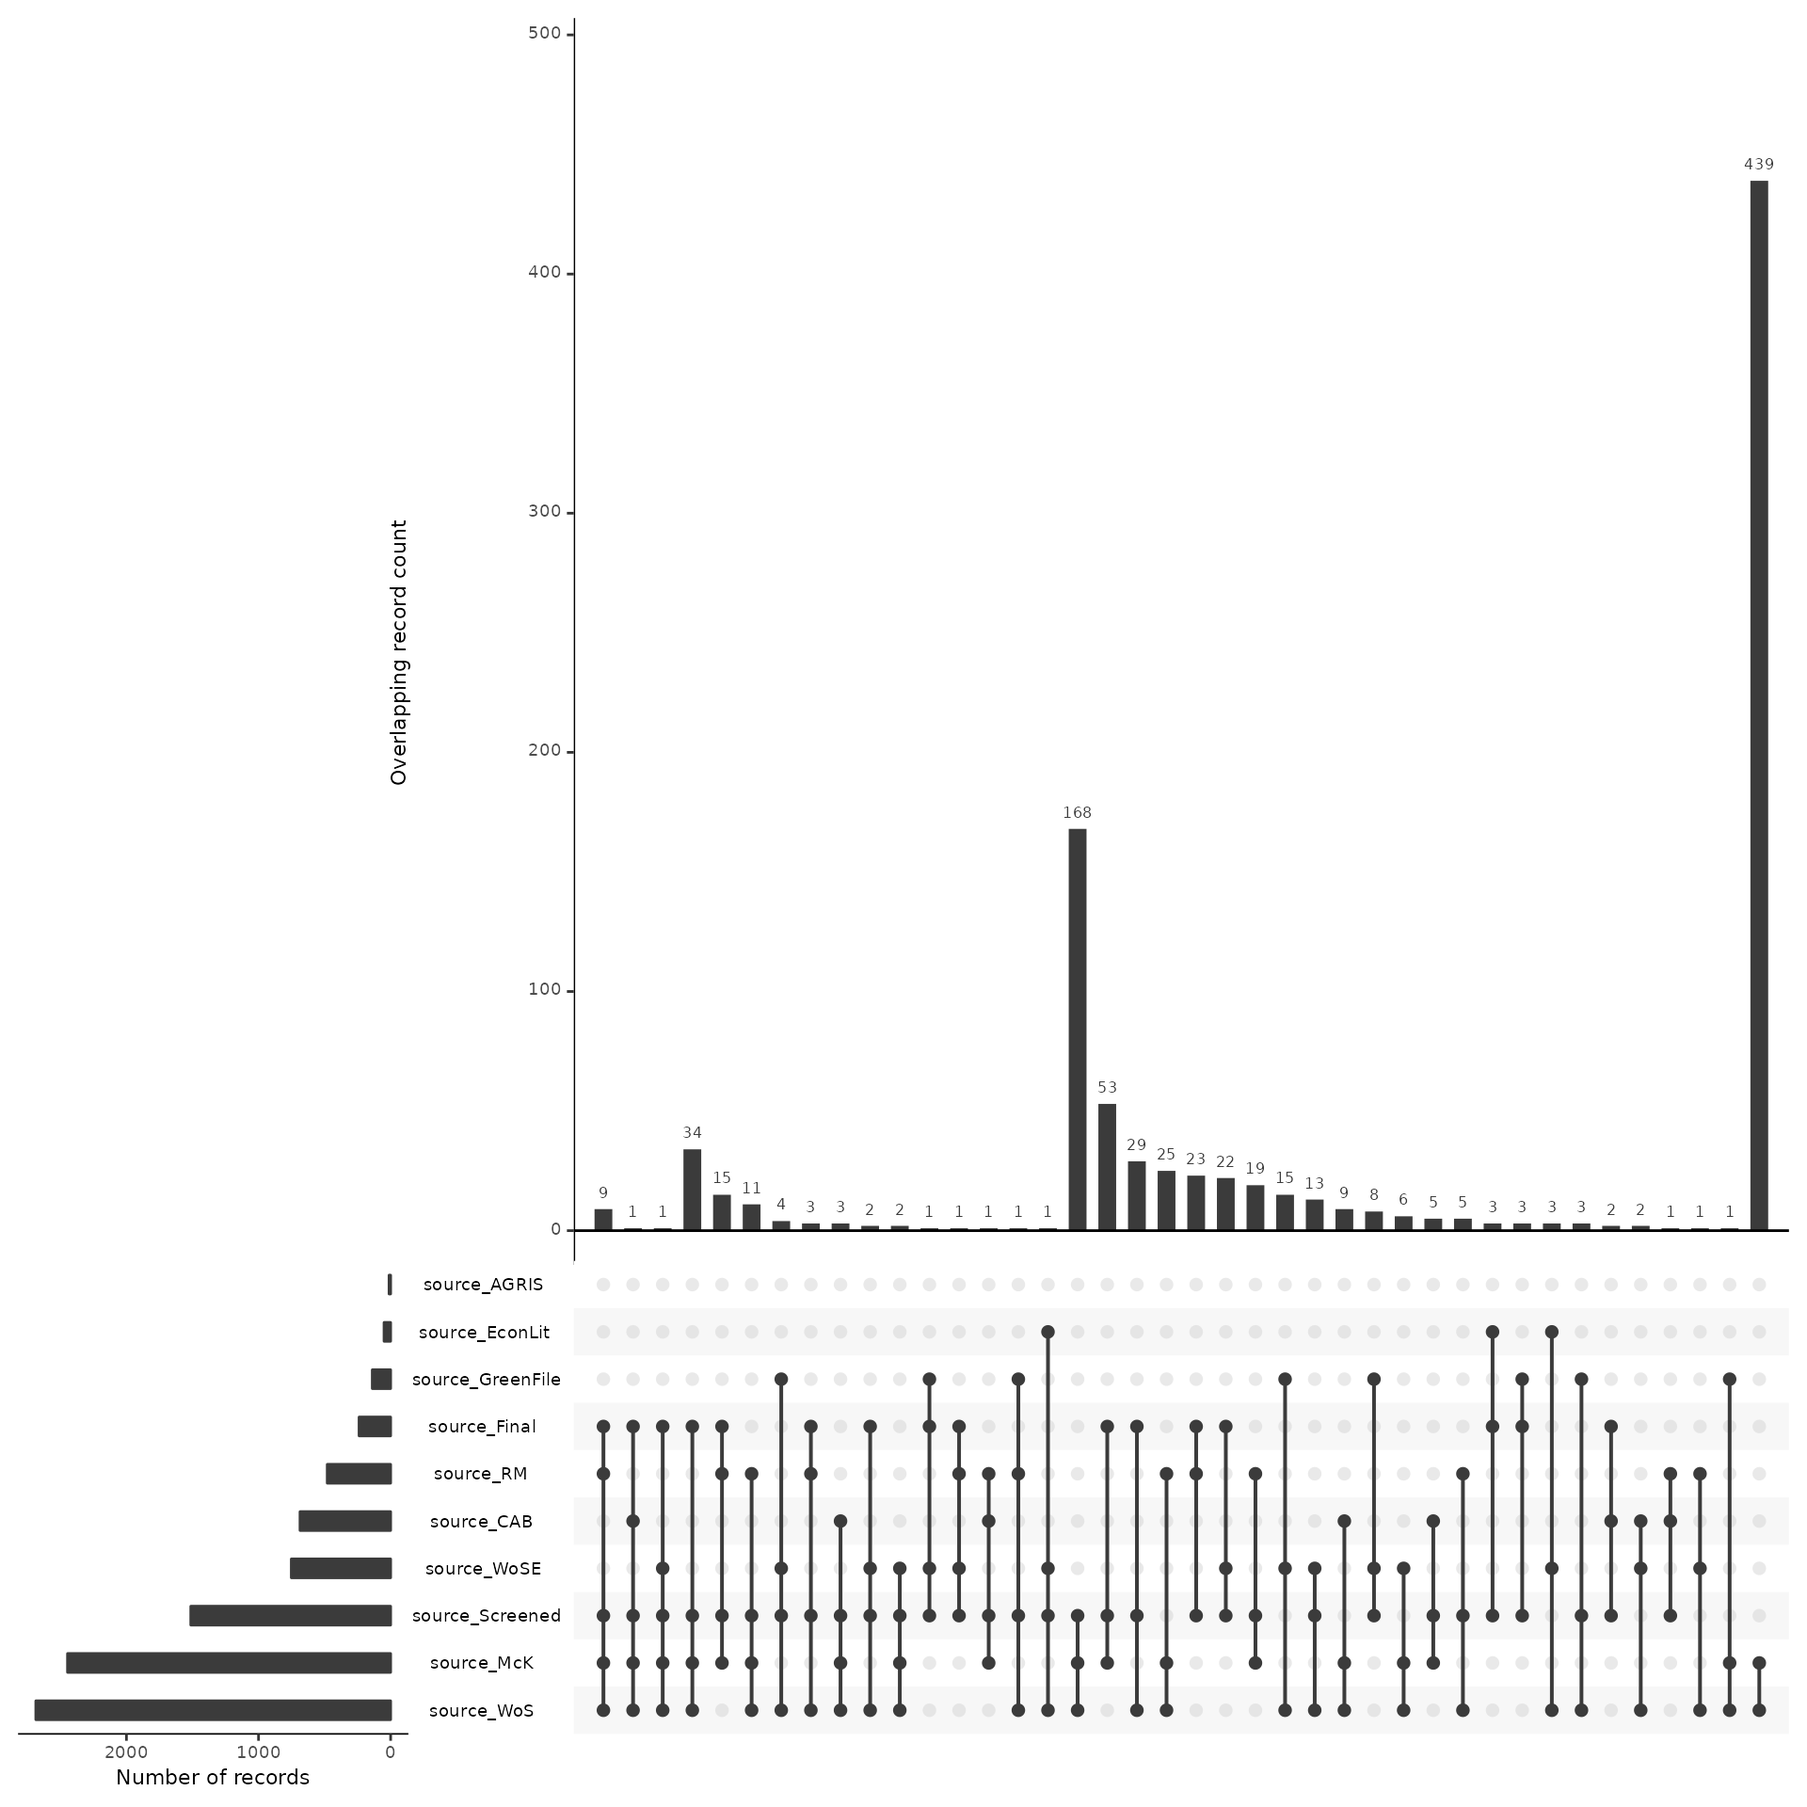
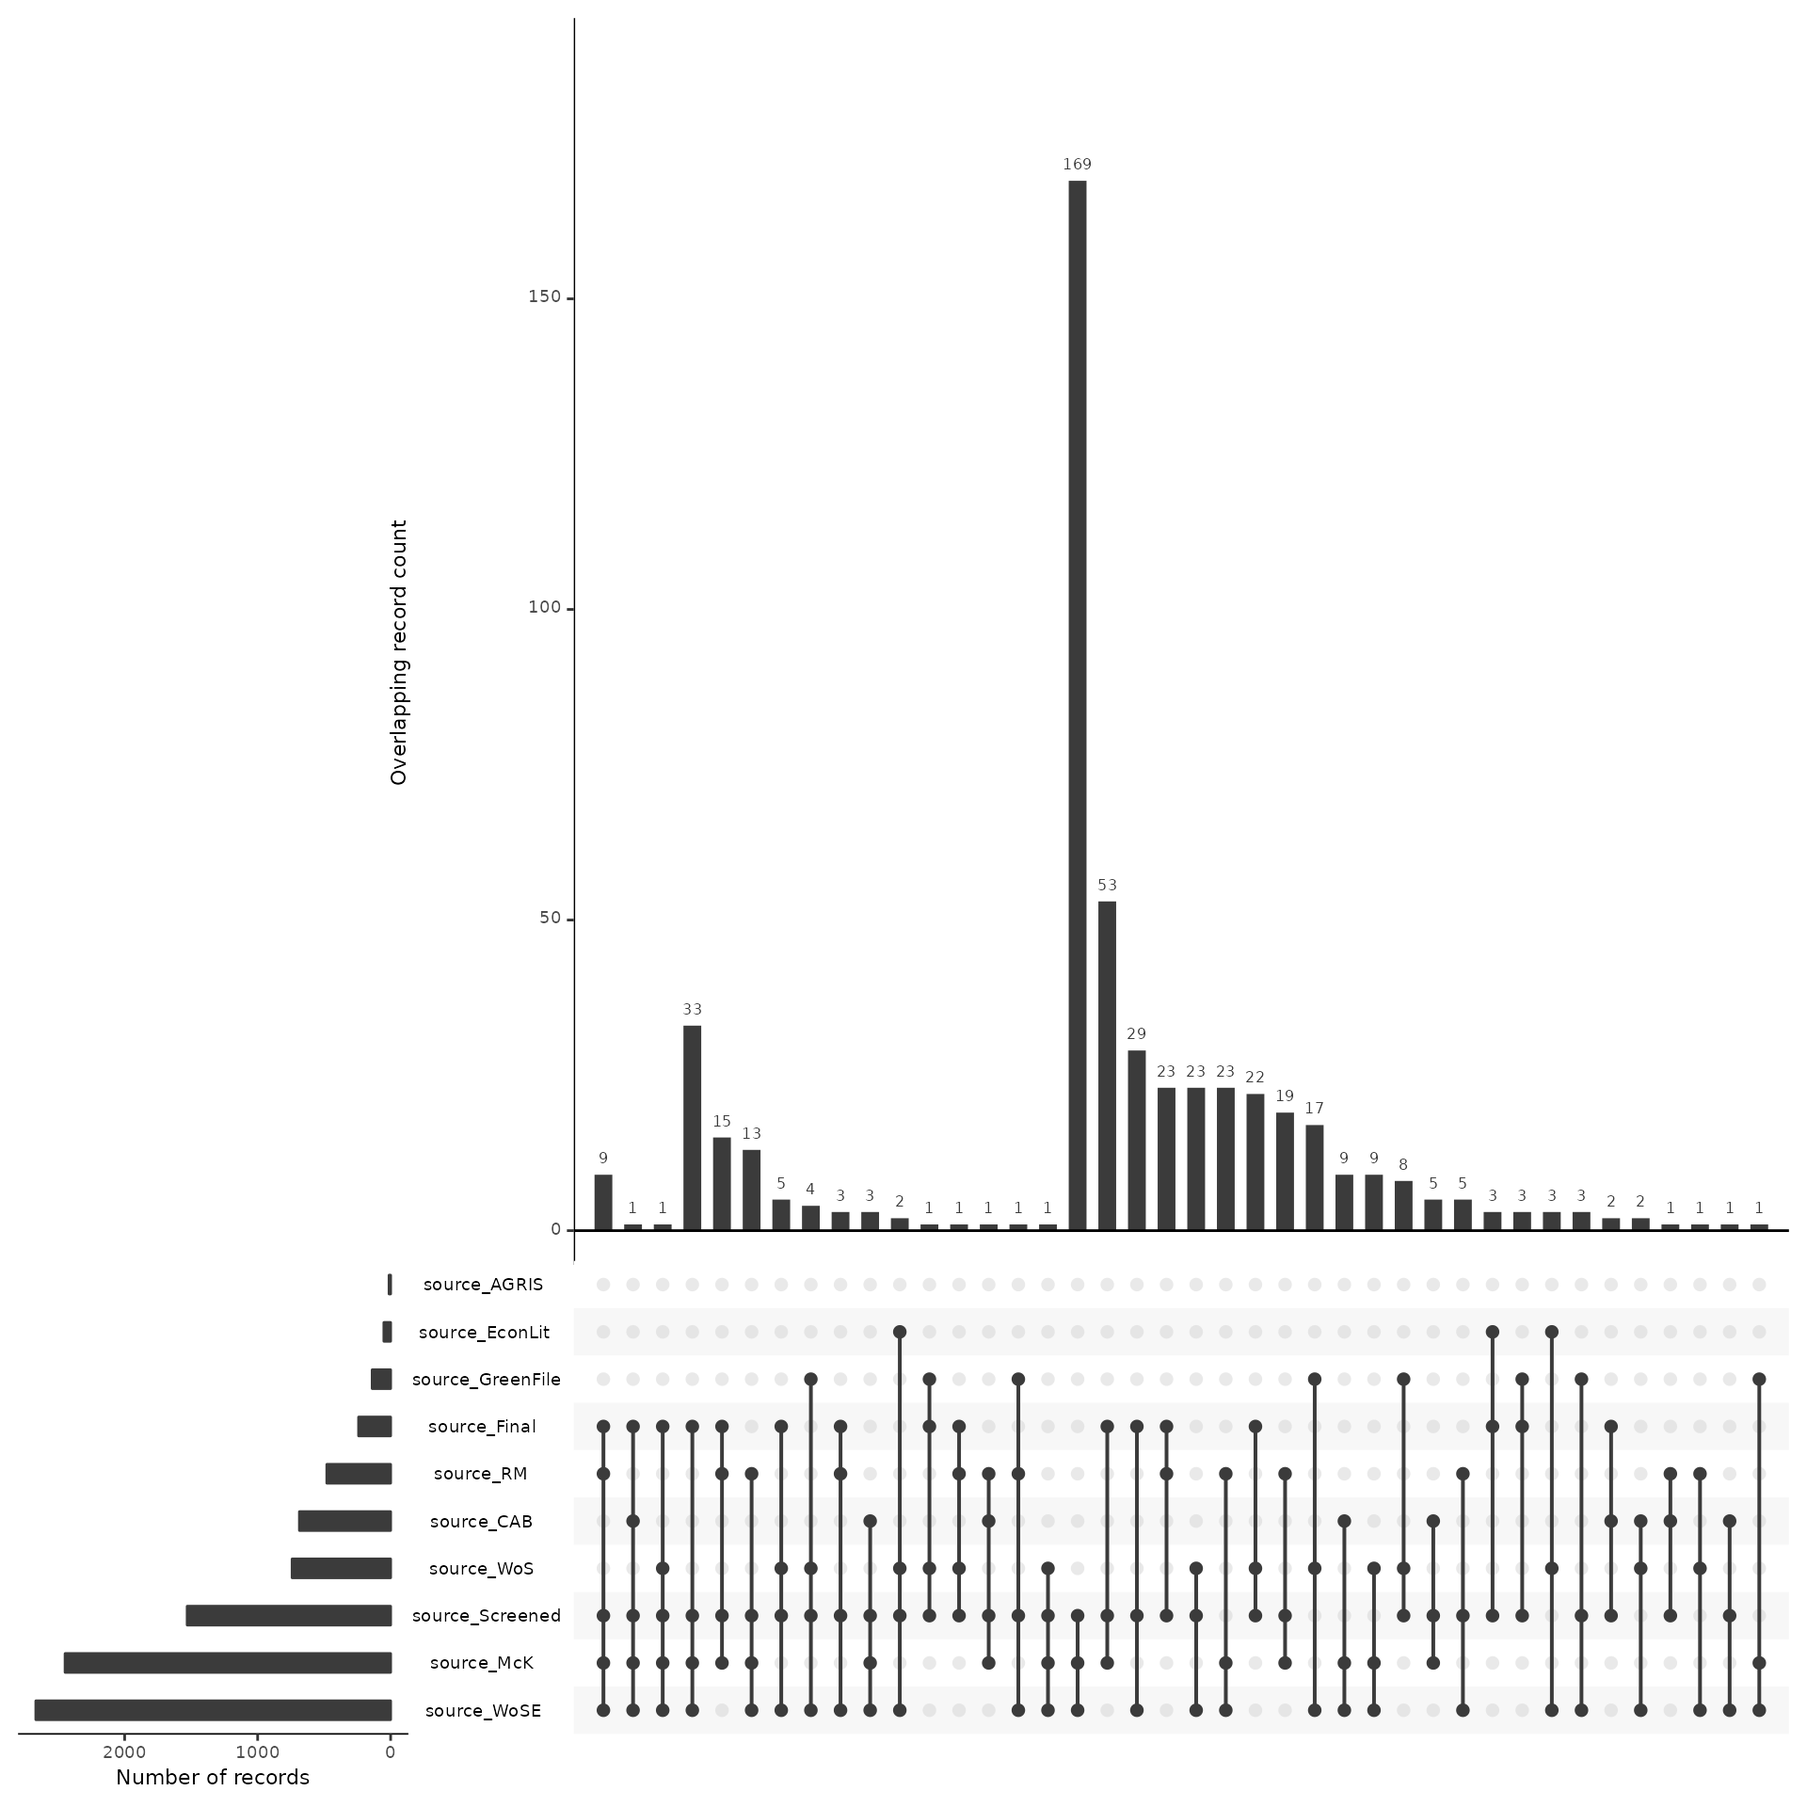
Built site for CiteSource: 0.0.0.9000@3d6e1e9

diff --git a/articles/citesource_working_example.html b/articles/citesource_working_example.html
@@ -120,8 +120,8 @@
 <span><span class="co">#&gt;  [6] "../tests/testthat/data/working_example/short/McK.ris"      </span></span>
 <span><span class="co">#&gt;  [7] "../tests/testthat/data/working_example/short/RM.ris"       </span></span>
 <span><span class="co">#&gt;  [8] "../tests/testthat/data/working_example/short/TiAb.ris"     </span></span>
-<span><span class="co">#&gt;  [9] "../tests/testthat/data/working_example/short/WoS_early.ris"</span></span>
-<span><span class="co">#&gt; [10] "../tests/testthat/data/working_example/short/WoS.ris"</span></span>
+<span><span class="co">#&gt;  [9] "../tests/testthat/data/working_example/short/WoS.ris"      </span></span>
+<span><span class="co">#&gt; [10] "../tests/testthat/data/working_example/short/WoSEarly.ris"</span></span>
 <span></span>
 <span></span>
 <span><span class="co">#Read citation files and store. Labels is used to compare stages of review.</span></span>
@@ -146,16 +146,18 @@
 <span>                            cite_labels <span class="op">=</span> <span class="fu"><a href="https://rdrr.io/r/base/c.html" class="external-link">c</a></span><span class="op">(</span><span class="st">"search"</span>,<span class="st">"search"</span>, <span class="st">"search"</span>, <span class="st">"Final"</span>, </span>
 <span>                                            <span class="st">"search"</span>,<span class="st">"search"</span>,<span class="st">"search"</span>,<span class="st">"Screened"</span>, <span class="st">"search"</span>,<span class="st">"search"</span><span class="op">)</span>,</span>
 <span>                            tag_naming <span class="op">=</span> <span class="st">"best_guess"</span><span class="op">)</span></span>
-<span><span class="co">#&gt; AGRIS.ris: read 12 citations.</span></span>
-<span><span class="co">#&gt; CAB.ris: read 687 citations.</span></span>
-<span><span class="co">#&gt; EconLit.ris: read 50 citations.</span></span>
-<span><span class="co">#&gt; Final.ris: read 243 citations.</span></span>
-<span><span class="co">#&gt; GreenFile.ris: read 139 citations.</span></span>
-<span><span class="co">#&gt; McK.ris: read 2661 citations.</span></span>
-<span><span class="co">#&gt; RM.ris: read 530 citations.</span></span>
-<span><span class="co">#&gt; TiAb.ris: read 1574 citations.</span></span>
-<span><span class="co">#&gt; WoS_early.ris: read 2639 citations.</span></span>
-<span><span class="co">#&gt; WoS.ris: read 738 citations.</span></span></code></pre></div>
+<span><span class="co">#&gt; Import completed - with the following details:</span></span>
+<span><span class="co">#&gt;             file cite_source cite_string cite_label citations</span></span>
+<span><span class="co">#&gt; 1      AGRIS.ris       AGRIS          NA     search        12</span></span>
+<span><span class="co">#&gt; 2        CAB.ris         CAB          NA     search       687</span></span>
+<span><span class="co">#&gt; 3    EconLit.ris     EconLit          NA     search        50</span></span>
+<span><span class="co">#&gt; 4      Final.ris       Final          NA     search       243</span></span>
+<span><span class="co">#&gt; 5  GreenFile.ris   GreenFile          NA     search       139</span></span>
+<span><span class="co">#&gt; 6        McK.ris         McK          NA     search      2661</span></span>
+<span><span class="co">#&gt; 7         RM.ris          RM          NA     search       530</span></span>
+<span><span class="co">#&gt; 8       TiAb.ris    Screened          NA     search      1574</span></span>
+<span><span class="co">#&gt; 9        WoS.ris         WoS          NA     search       738</span></span>
+<span><span class="co">#&gt; 10  WoSEarly.ris        WoSE          NA     search      2639</span></span></code></pre></div>
 </div>
 <div class="section level2">
 <h2 id="deduplicate-while-maintaining-source-information">Deduplicate while maintaining source information<a class="anchor" aria-label="anchor" href="#deduplicate-while-maintaining-source-information"></a>

diff --git a/articles/troubleshooting.html b/articles/troubleshooting.html
@@ -91,8 +91,10 @@
 <span><span class="va">citations</span> <span class="op">&lt;-</span> <span class="fu"><a href="../reference/read_citations.html">read_citations</a></span><span class="op">(</span><span class="va">citation_files</span>,</span>
 <span>                            cite_sources <span class="op">=</span> <span class="fu"><a href="https://rdrr.io/r/base/c.html" class="external-link">c</a></span><span class="op">(</span><span class="st">"WoS"</span>, <span class="st">"WoS_early"</span><span class="op">)</span>,</span>
 <span>                            tag_naming <span class="op">=</span> <span class="st">"best_guess"</span><span class="op">)</span></span>
-<span><span class="co">#&gt; WoS_Early.ris: read 2639 citations.</span></span>
-<span><span class="co">#&gt; WoS.ris: read 738 citations.</span></span>
+<span><span class="co">#&gt; Import completed - with the following details:</span></span>
+<span><span class="co">#&gt;            file cite_source cite_string cite_label citations</span></span>
+<span><span class="co">#&gt; 1 WoS_Early.ris         WoS          NA         NA      2639</span></span>
+<span><span class="co">#&gt; 2       WoS.ris   WoS_early          NA         NA       738</span></span>
 <span></span>
 <span></span>
 <span><span class="va">dedup_results</span> <span class="op">&lt;-</span> <span class="fu"><a href="../reference/dedup_citations.html">dedup_citations</a></span><span class="op">(</span><span class="va">citations</span>, merge_citations <span class="op">=</span> <span class="cn">TRUE</span><span class="op">)</span></span>
@@ -111,8 +113,10 @@
 <span><span class="va">citations</span> <span class="op">&lt;-</span> <span class="fu"><a href="../reference/read_citations.html">read_citations</a></span><span class="op">(</span><span class="va">citation_files</span>,</span>
 <span>                            cite_sources <span class="op">=</span> <span class="fu"><a href="https://rdrr.io/r/base/c.html" class="external-link">c</a></span><span class="op">(</span><span class="st">"WoS"</span>, <span class="st">"WoS_Early"</span><span class="op">)</span>,</span>
 <span>                            tag_naming <span class="op">=</span> <span class="st">"best_guess"</span><span class="op">)</span></span>
-<span><span class="co">#&gt; WoS_Early.ris: read 2639 citations.</span></span>
-<span><span class="co">#&gt; WoS.ris: read 738 citations.</span></span>
+<span><span class="co">#&gt; Import completed - with the following details:</span></span>
+<span><span class="co">#&gt;            file cite_source cite_string cite_label citations</span></span>
+<span><span class="co">#&gt; 1 WoS_Early.ris         WoS          NA         NA      2639</span></span>
+<span><span class="co">#&gt; 2       WoS.ris   WoS_Early          NA         NA       738</span></span>
 <span></span>
 <span><span class="va">citations</span> <span class="op"><a href="https://magrittr.tidyverse.org/reference/pipe.html" class="external-link">%&gt;%</a></span> <span class="fu"><a href="https://dplyr.tidyverse.org/reference/count.html" class="external-link">count</a></span><span class="op">(</span><span class="va">cite_source</span><span class="op">)</span></span>
 <span><span class="co">#&gt; <span style="color: #949494;"># A tibble: 2 × 2</span></span></span>

diff --git a/articles/citesource_vignette.html b/articles/citesource_vignette.html
@@ -126,15 +126,17 @@
 <span>                            cite_labels <span class="op">=</span> <span class="fu"><a href="https://rdrr.io/r/base/c.html" class="external-link">c</a></span><span class="op">(</span><span class="st">"search"</span>, <span class="st">"search"</span>, <span class="st">"Final"</span>, </span>
 <span>                                            <span class="st">"search"</span>,<span class="st">"search"</span>,<span class="st">"search"</span>,<span class="st">"Screened"</span>, <span class="st">"search"</span>,<span class="st">"search"</span><span class="op">)</span>,</span>
 <span>                            tag_naming <span class="op">=</span> <span class="st">"best_guess"</span><span class="op">)</span></span>
-<span><span class="co">#&gt; CAB.ris: read 687 citations.</span></span>
-<span><span class="co">#&gt; EconLit.ris: read 50 citations.</span></span>
-<span><span class="co">#&gt; Final.ris: read 243 citations.</span></span>
-<span><span class="co">#&gt; GreenFile.ris: read 139 citations.</span></span>
-<span><span class="co">#&gt; McK.ris: read 2661 citations.</span></span>
-<span><span class="co">#&gt; RM.ris: read 530 citations.</span></span>
-<span><span class="co">#&gt; TiAb.ris: read 1574 citations.</span></span>
-<span><span class="co">#&gt; WoS_early.ris: read 2639 citations.</span></span>
-<span><span class="co">#&gt; WoS.ris: read 738 citations.</span></span></code></pre></div>
+<span><span class="co">#&gt; Import completed - with the following details:</span></span>
+<span><span class="co">#&gt;            file cite_source cite_string cite_label citations</span></span>
+<span><span class="co">#&gt; 1       CAB.ris         CAB          NA     search       687</span></span>
+<span><span class="co">#&gt; 2   EconLit.ris     EconLit          NA     search        50</span></span>
+<span><span class="co">#&gt; 3     Final.ris        &lt;NA&gt;          NA     search       243</span></span>
+<span><span class="co">#&gt; 4 GreenFile.ris   GreenFile          NA     search       139</span></span>
+<span><span class="co">#&gt; 5       McK.ris         McK          NA     search      2661</span></span>
+<span><span class="co">#&gt; 6        RM.ris          RM          NA     search       530</span></span>
+<span><span class="co">#&gt; 7      TiAb.ris        &lt;NA&gt;          NA     search      1574</span></span>
+<span><span class="co">#&gt; 8 WoS_early.ris         WoS          NA     search      2639</span></span>
+<span><span class="co">#&gt; 9       WoS.ris        WoSE          NA     search       738</span></span></code></pre></div>
 </div>
 <div class="section level2">
 <h2 id="deduplicate-while-maintaining-source-information">Deduplicate while maintaining source information<a class="anchor" aria-label="anchor" href="#deduplicate-while-maintaining-source-information"></a>

diff --git a/articles/citesource_example.html b/articles/citesource_example.html
@@ -98,11 +98,13 @@
 <span>                            cite_sources <span class="op">=</span> <span class="fu"><a href="https://rdrr.io/r/base/c.html" class="external-link">c</a></span><span class="op">(</span><span class="st">"DIM"</span>, <span class="cn">NA</span>,<span class="st">"LENS"</span>, <span class="cn">NA</span>, <span class="st">"WOS"</span><span class="op">)</span>,</span>
 <span>                            cite_labels <span class="op">=</span> <span class="fu"><a href="https://rdrr.io/r/base/c.html" class="external-link">c</a></span><span class="op">(</span><span class="st">"search"</span>,  <span class="st">"final"</span>, <span class="st">"search"</span>, <span class="st">"screen"</span>, <span class="st">"search"</span><span class="op">)</span>,</span>
 <span>                            tag_naming <span class="op">=</span> <span class="st">"best_guess"</span><span class="op">)</span></span>
-<span><span class="co">#&gt; dim.ris: read 132 citations.</span></span>
-<span><span class="co">#&gt; final.ris: read 16 citations.</span></span>
-<span><span class="co">#&gt; lens.ris: read 175 citations.</span></span>
-<span><span class="co">#&gt; tia.ris: read 25 citations.</span></span>
-<span><span class="co">#&gt; wos.ris: read 219 citations.</span></span></code></pre></div>
+<span><span class="co">#&gt; Import completed - with the following details:</span></span>
+<span><span class="co">#&gt;        file cite_source cite_string cite_label citations</span></span>
+<span><span class="co">#&gt; 1   dim.ris         DIM          NA     search       132</span></span>
+<span><span class="co">#&gt; 2 final.ris        &lt;NA&gt;          NA     search        16</span></span>
+<span><span class="co">#&gt; 3  lens.ris        LENS          NA     search       175</span></span>
+<span><span class="co">#&gt; 4   tia.ris        &lt;NA&gt;          NA     search        25</span></span>
+<span><span class="co">#&gt; 5   wos.ris         WOS          NA     search       219</span></span></code></pre></div>
 </div>
 <div class="section level2">
 <h2 id="deduplication">2. Deduplication<a class="anchor" aria-label="anchor" href="#deduplication"></a>

diff --git a/articles/kh_example.html b/articles/kh_example.html
@@ -98,11 +98,13 @@
 <span>                            cite_sources <span class="op">=</span> <span class="fu"><a href="https://rdrr.io/r/base/c.html" class="external-link">c</a></span><span class="op">(</span><span class="st">"DIM"</span>, <span class="cn">NA</span>,<span class="st">"LENS"</span>, <span class="cn">NA</span>, <span class="st">"WOS"</span><span class="op">)</span>,</span>
 <span>                            cite_labels <span class="op">=</span> <span class="fu"><a href="https://rdrr.io/r/base/c.html" class="external-link">c</a></span><span class="op">(</span><span class="st">"search"</span>,  <span class="st">"final"</span>, <span class="st">"search"</span>, <span class="st">"screen"</span>, <span class="st">"search"</span><span class="op">)</span>,</span>
 <span>                            tag_naming <span class="op">=</span> <span class="st">"best_guess"</span><span class="op">)</span></span>
-<span><span class="co">#&gt; dim.ris: read 132 citations.</span></span>
-<span><span class="co">#&gt; final.ris: read 16 citations.</span></span>
-<span><span class="co">#&gt; lens.ris: read 175 citations.</span></span>
-<span><span class="co">#&gt; tia.ris: read 25 citations.</span></span>
-<span><span class="co">#&gt; wos.ris: read 219 citations.</span></span></code></pre></div>
+<span><span class="co">#&gt; Import completed - with the following details:</span></span>
+<span><span class="co">#&gt;        file cite_source cite_string cite_label citations</span></span>
+<span><span class="co">#&gt; 1   dim.ris         DIM          NA     search       132</span></span>
+<span><span class="co">#&gt; 2 final.ris        &lt;NA&gt;          NA     search        16</span></span>
+<span><span class="co">#&gt; 3  lens.ris        LENS          NA     search       175</span></span>
+<span><span class="co">#&gt; 4   tia.ris        &lt;NA&gt;          NA     search        25</span></span>
+<span><span class="co">#&gt; 5   wos.ris         WOS          NA     search       219</span></span></code></pre></div>
 </div>
 <div class="section level2">
 <h2 id="deduplication">2. Deduplication<a class="anchor" aria-label="anchor" href="#deduplication"></a>
